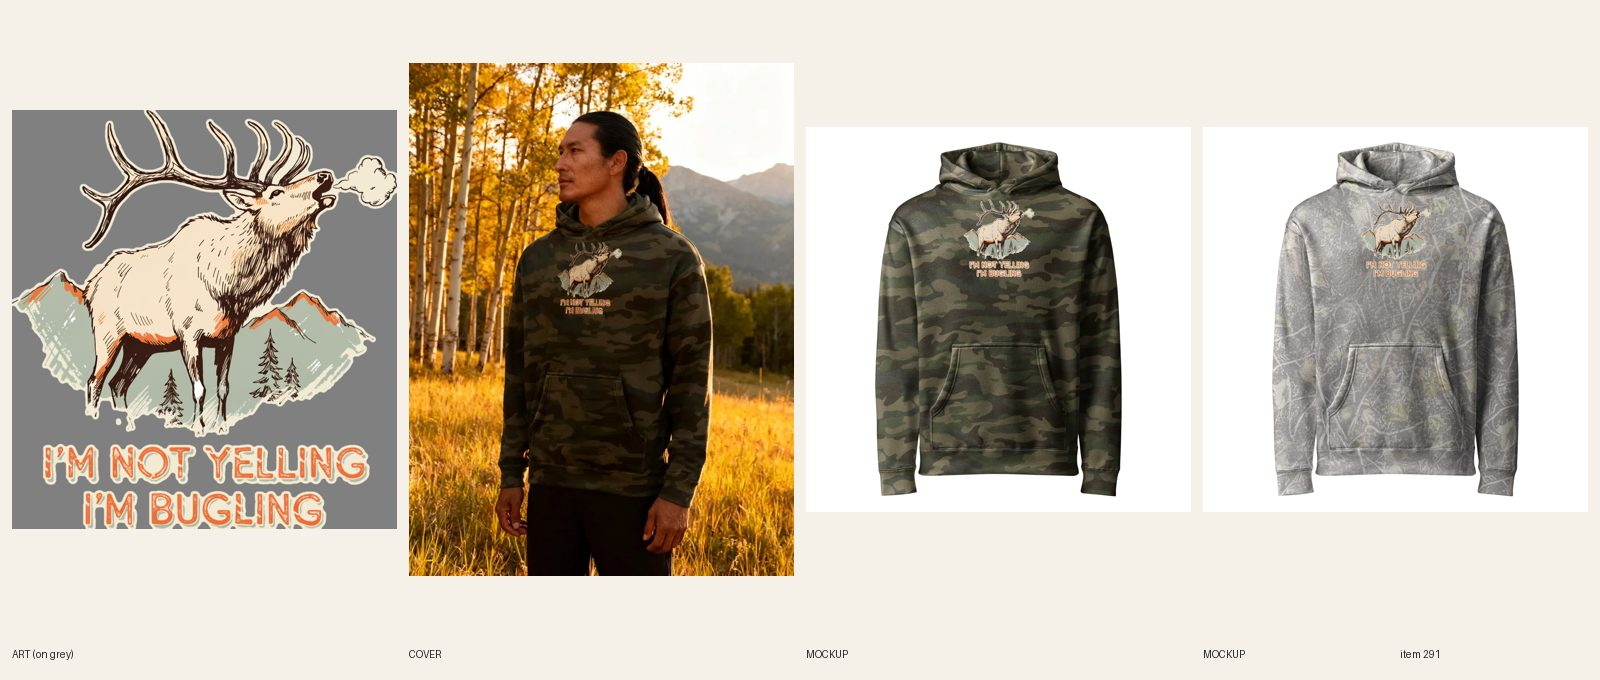
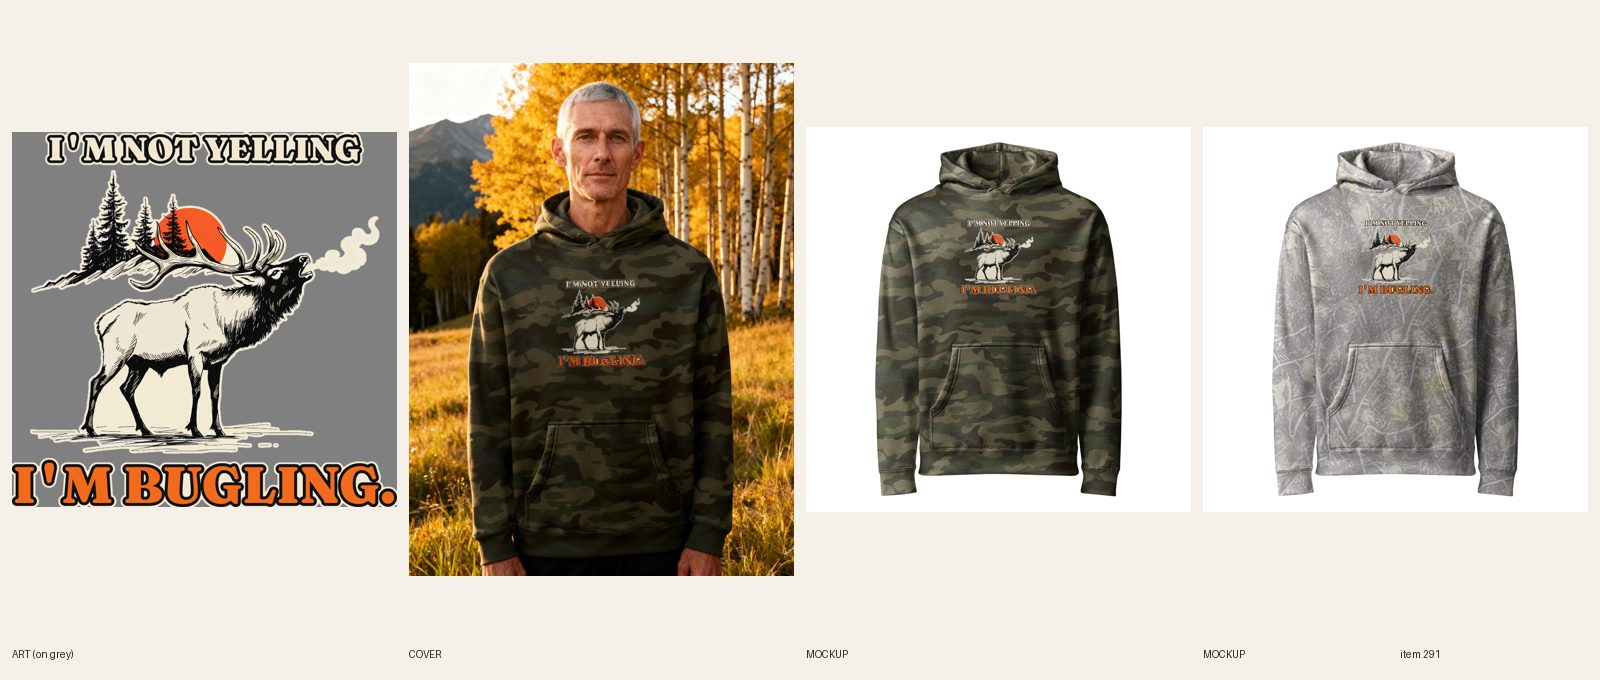
[B] review 291 camo redo 27 (elk bugling, A+)
Claude-Session: https://claude.ai/code/session_01SLsSLRzVt1a4MNeXrb9aco

Changed region(s): [[0.0, 0.0926, 0.5, 0.8647], [0.5938, 0.2779, 0.6562, 0.4324], [0.8438, 0.3088, 0.9062, 0.4324]]

diff --git a/docs/pipeline/291-camo-hoodie-not-yelling-bugling-elk.md b/docs/pipeline/291-camo-hoodie-not-yelling-bugling-elk.md
@@ -1,4 +1,4 @@
-status: BUILDING [B] 2026-10-28T21:37Z
+status: REVIEW
 lane: B
 type: new
 id: 291
@@ -26,3 +26,4 @@ handle: mens-hunting-im-not-yelling-im-bugling-camo-hoodie
 - 2026-10-17 01:15 UTC director: LIVE. Reviewed docs/review/291.jpg + Shopify copy; set ACTIVE, published to Online Store, Headless and Google & YouTube; cohesion-audit --handle PASS.
 - 2026-10-22 22:00 UTC Claude (Sam): REDO, camo redo #27 of 27, style S1. New art in its own style, no box, no condensed sans, placement per docs/backlog/camo-redo.md (never TOP 0). Redo in place.
 - 2026-10-22 22:40 UTC Claude (Sam): placement A/B test, this item is A+ (center 10 in, tag placement-a).
+- 2026-10-28 21:48 UTC [B]: camo-redo #27 (S1 cinematic on A+, tag placement-a), in place on product 15362692645168, product ACTIVE. New art: 3 Recraft calls (try 1 steam ran off the canvas edge into a hard-edged cream panel, try 2 brown elk, try 3 kept: black, cream, blaze orange, no words), thin cream halo, no box; I'M NOT YELLING cream above, I'M BUGLING. blaze orange below, Fraunces (lane B last faces: Alfa Slab, Lobster, Caveat Brush, Rye, Bevan, Cinzel, Bowlby; not among them). Print 2875 x 2799, FW1500 TOP400 (TOP+h 1866 <= 2100), headline 2352 / punch 2875 px = 122%, subject ~2470 of 2875 = 86%, punch cap ~210 px at FW1500 (floor 90). 14/14 on file 1097483996 (verified from Printful sync), back logo 1080398177 on 14/14. Front mockups replaced in place (fileUpdate), copy, alts, SEO, placement-a tag, FAQ 5 x 48-53 words. Title unchanged (line kept, 7i n/a). Phone-size read: Forest OK; Deadwood headline is the weakest read (cream with dark keyline on light grey), legible. Photos: registry 1177 and 1178 (1 call each, lettering correct), images 1-2, back last. Handle in retired-covers. Sheet docs/review/291.jpg. fal ~$0.16.

diff --git a/docs/model-registry.md b/docs/model-registry.md
@@ -969,3 +969,5 @@ Rows 11–43 were re-pointed on 2026-10-08 when the briefs were rewritten from d
 | 1174 | Asian American man, late 20s, short black hair, light stubble, athletic build, no hat | USED 2026-10-28 — #902 Mountains Left on Read camo hoodie photo 1 (seedream, 1 call) |
 | 1175 | Black man, early 50s, short grey-flecked beard, stocky build, no hat | USED 2026-10-28 — #232 No Deer Today camo hoodie photo 1 (seedream) |
 | 1176 | white man, early 30s, ginger beard, broad build, no hat | USED 2026-10-28 — #232 No Deer Today camo hoodie photo 2 (seedream) |
+| 1177 | white man, late 40s, silver crew cut, weathered face, tall lean build, no hat | USED 2026-10-28 — #291 Bugling camo hoodie photo 1 (seedream, 1 call) |
+| 1178 | Middle Eastern man, late 30s, short dark hair, full trimmed beard, medium build, no hat | USED 2026-10-28 — #291 Bugling camo hoodie photo 2 (seedream, 1 call) |

diff --git a/docs/intake-log.md b/docs/intake-log.md
@@ -1,3 +1,4 @@
+2026-10-28 21:48 UTC — [B] REVIEW #291 Men's Hunting – I'm Not Yelling I'm Bugling Camo Hoodie (camo-redo 27 of 27, S1 on A+, FW1500 TOP400, 14/14 on 1097483996, headline 2352 / punch 2875 px = 122%, subject 86%, Fraunces; 2 lifestyle photos). Product ACTIVE, director to confirm. fal ~$0.16
 RUNNING lane B since 2026-10-28 21:37 UTC
 2026-10-28 18:01 UTC — [B] Builder run end: 2 items, camo redo #25 #232 (cartoon hunter nap, A+) and #26 #955 (bison traffic, B3); both ACTIVE, director to confirm. New products today: 0 of 6. fal ~$0.45. Lock released.
 2026-10-28 18:01 UTC — [B] REVIEW #955 Unisex National Park – Running Late. Bison Traffic. Camo Hoodie (camo-redo 26 of 27, S7 on B3, FW625 TOP300 LEFT1475, 14/14 on 1097319641, line BISON TRAFFIC. in Alfa Slab, art 88% of height, cap 60 px at FW625; 2 lifestyle photos). Product ACTIVE, director to confirm. fal ~$0.24
